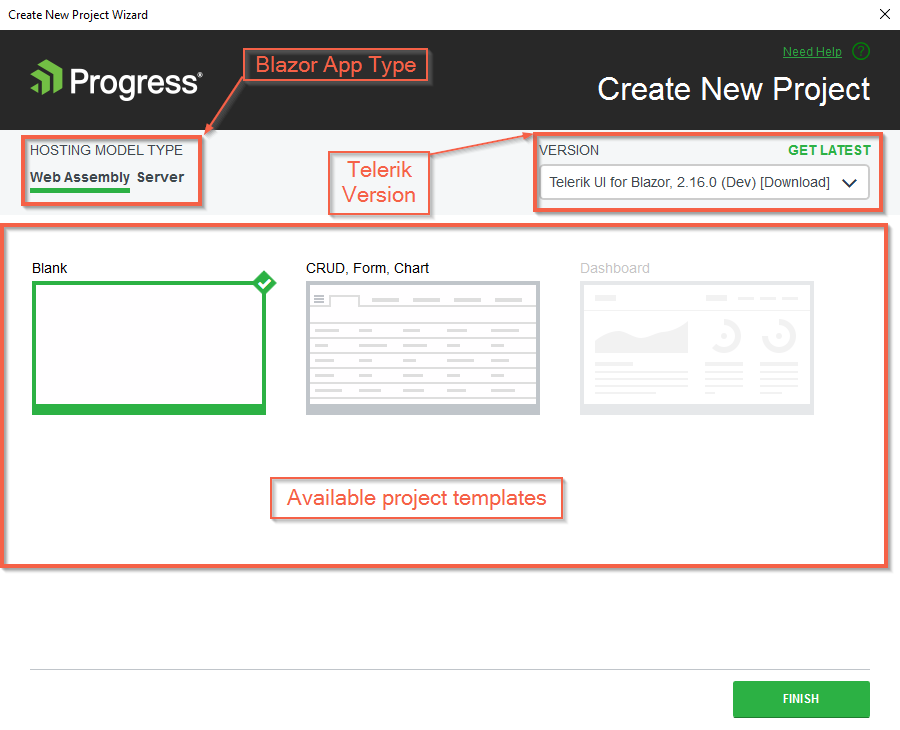
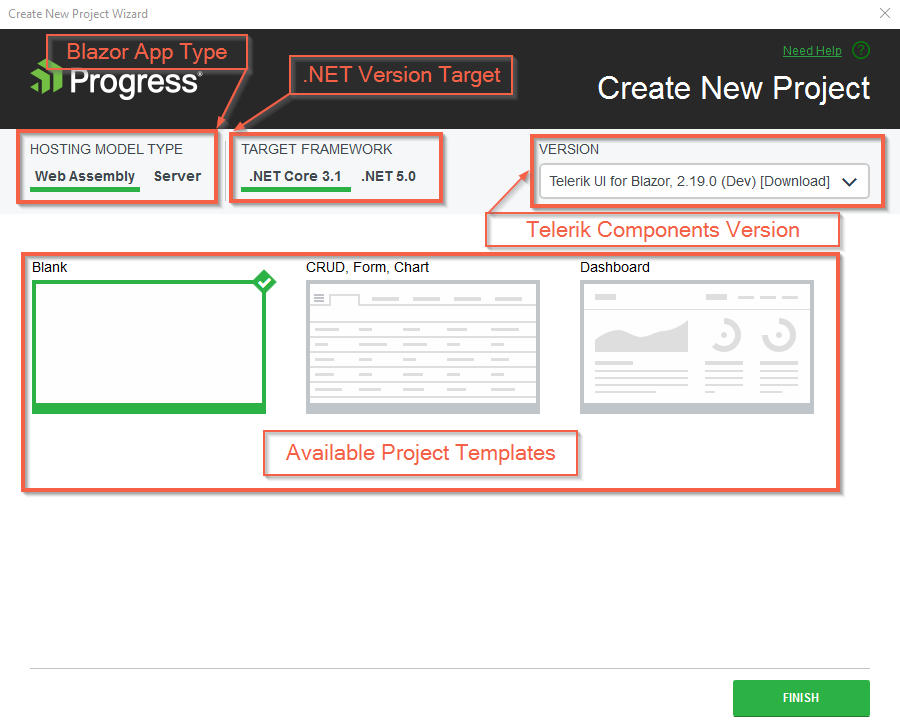
docs(vsx): new project wizard new feature

diff --git a/getting-started/vs-integration/new-project-wizard.md b/getting-started/vs-integration/new-project-wizard.md
@@ -40,8 +40,9 @@ To start the wizard, use either of the following approaches:
 On the **second** screen, you will choose:
 
 * between a WebAssembly and server-side Blazor app
-* one of the predefined **Telerik templates** 
+* the .NET version you want to use
 * the **Telerik Blazor version**
+* one of the predefined **Telerik templates** 
 
 >caption The available project templates:
 
